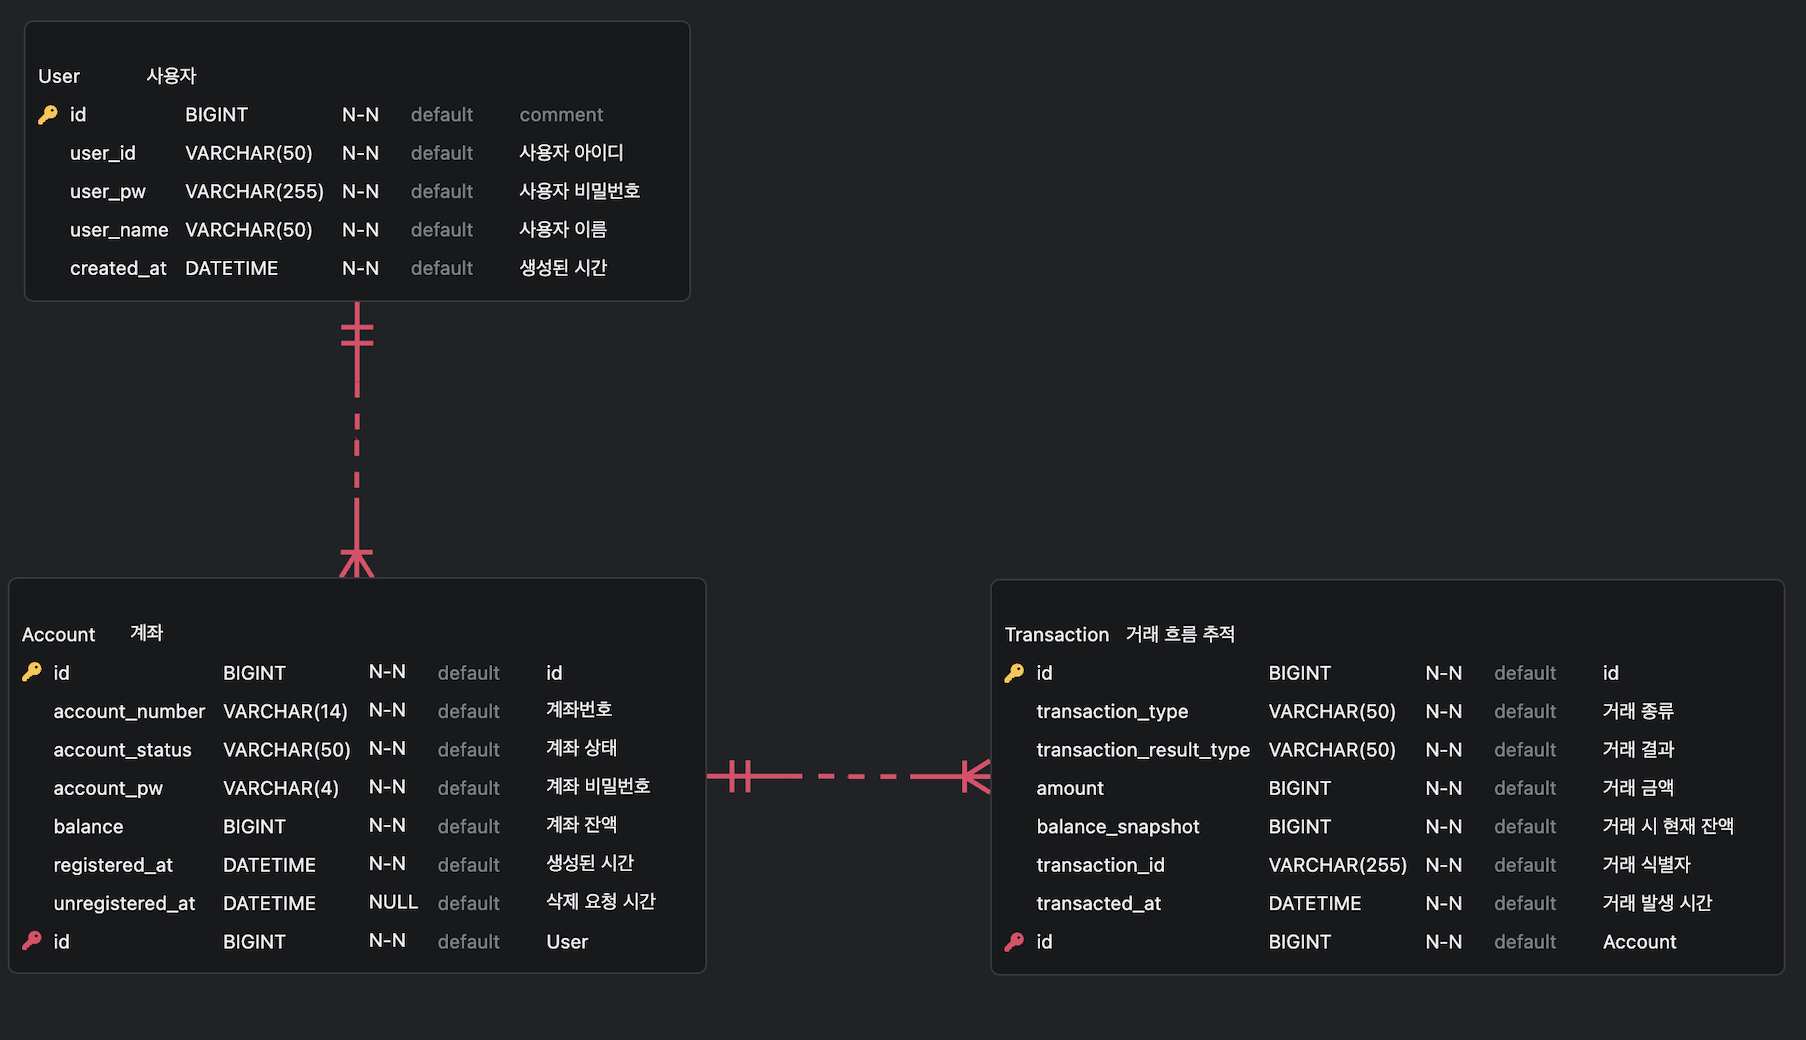
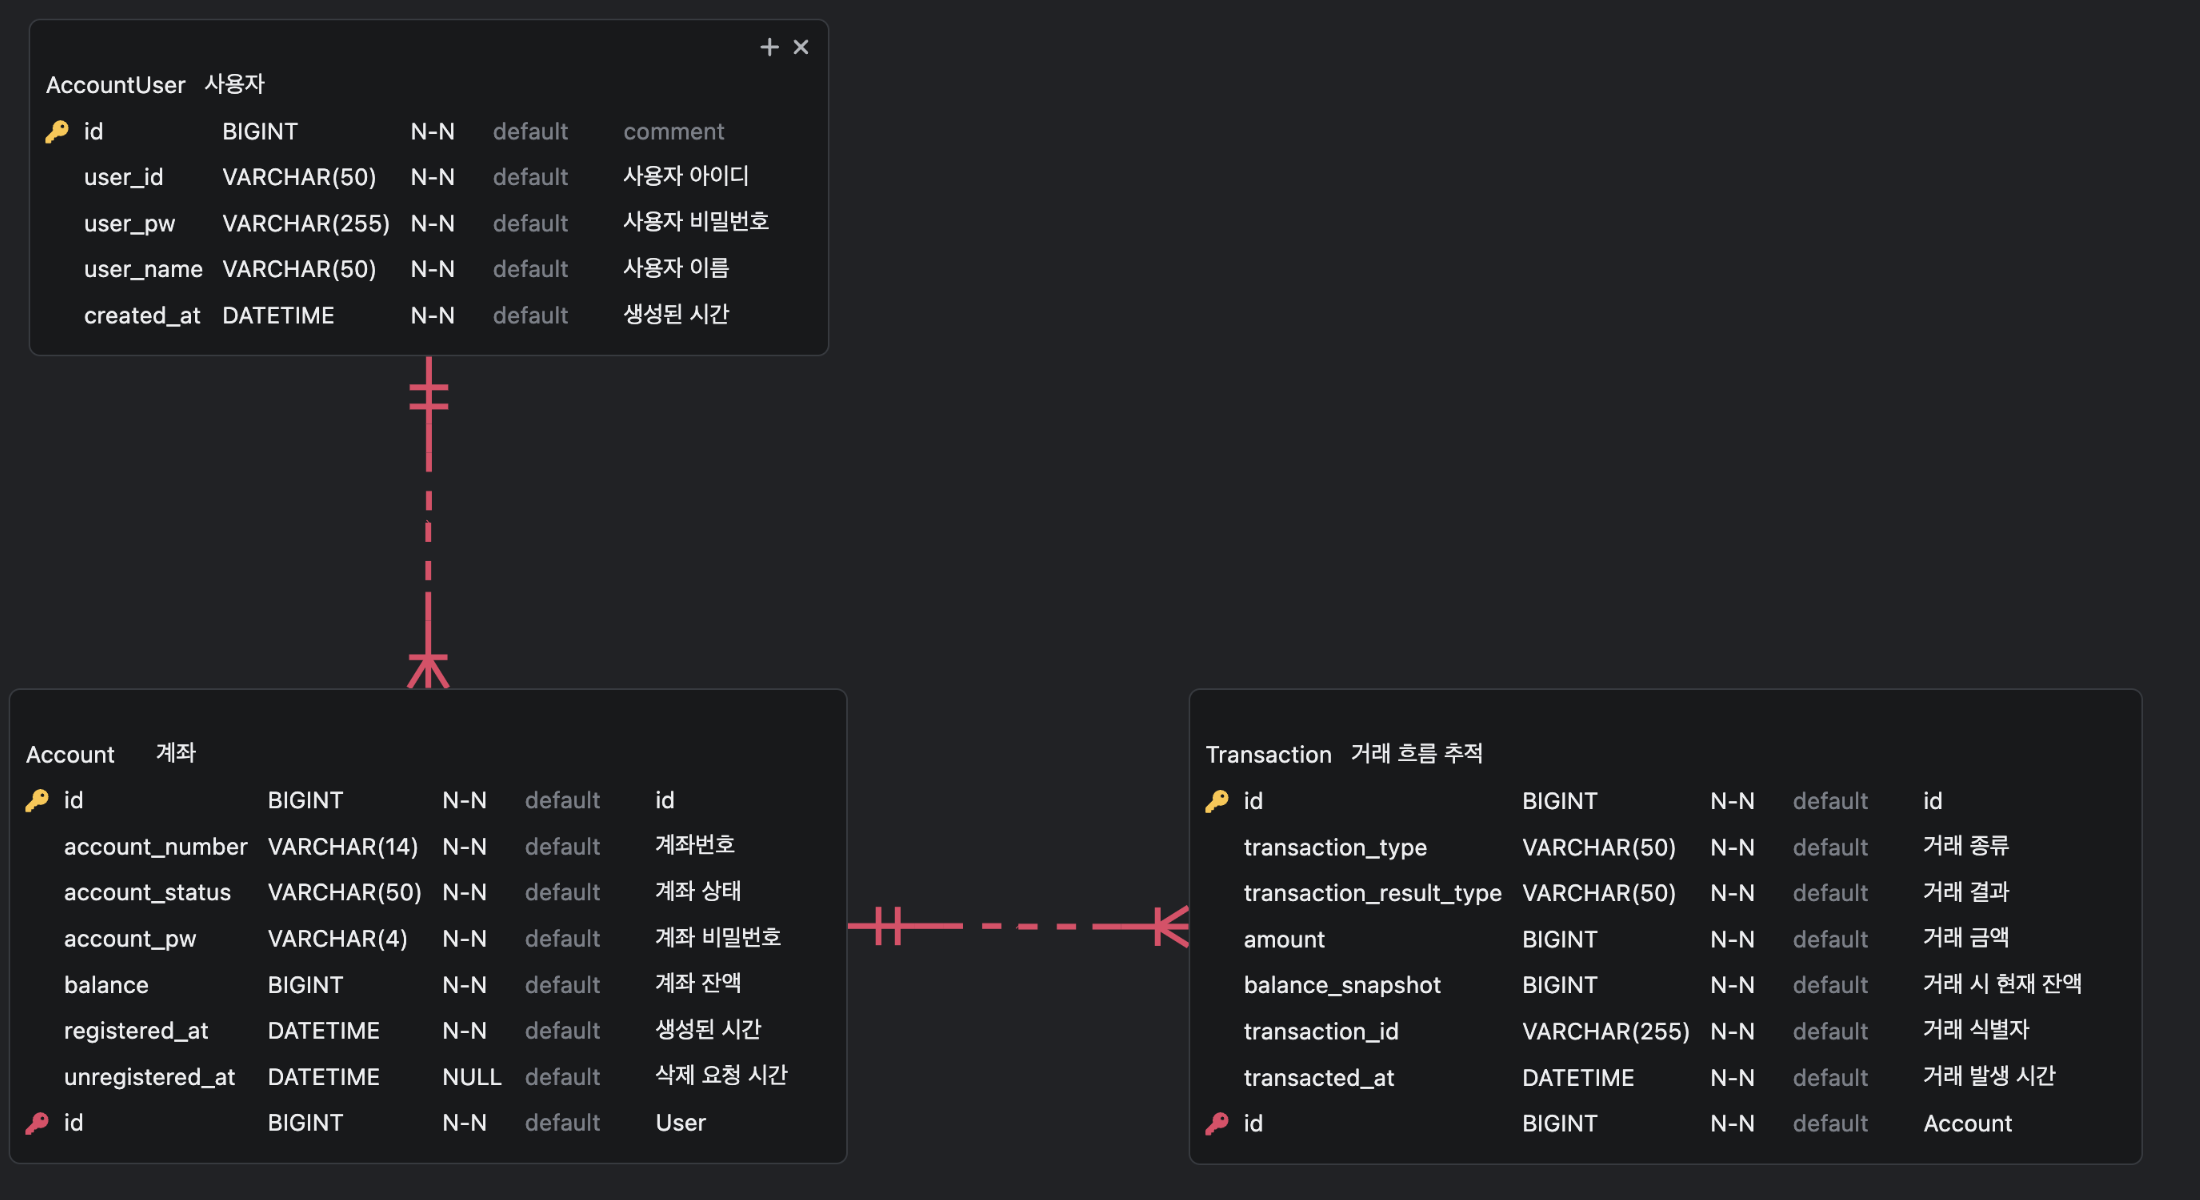
User -> Account 수정

Changed region(s): [[0.0, 0.5846, 0.9612, 0.9538], [0.0, 0.0615, 0.3721, 0.5846], [0.3411, 0.0308, 0.3721, 0.0615]]

diff --git a/src/main/java/zerobase/projectfintech/domain/AccountUser.java b/src/main/java/zerobase/projectfintech/domain/AccountUser.java
@@ -1,9 +1,6 @@
 package zerobase.projectfintech.domain;
 
-import jakarta.persistence.Entity;
-import jakarta.persistence.GeneratedValue;
-import jakarta.persistence.GenerationType;
-import jakarta.persistence.Id;
+import jakarta.persistence.*;
 import lombok.*;
 
 import java.time.LocalDateTime;
@@ -13,7 +10,7 @@ import java.time.LocalDateTime;
 @Builder
 @NoArgsConstructor
 @AllArgsConstructor
-public class User {
+public class AccountUser {
 
     @Id @GeneratedValue(strategy = GenerationType.IDENTITY)
     private Long id;

diff --git a/src/main/java/zerobase/projectfintech/domain/Account.java b/src/main/java/zerobase/projectfintech/domain/Account.java
@@ -24,5 +24,5 @@ public class Account {
     private LocalDateTime unregisteredAt;
 
     @ManyToOne(fetch = FetchType.LAZY)
-    private User user;
+    private AccountUser user;
 }
